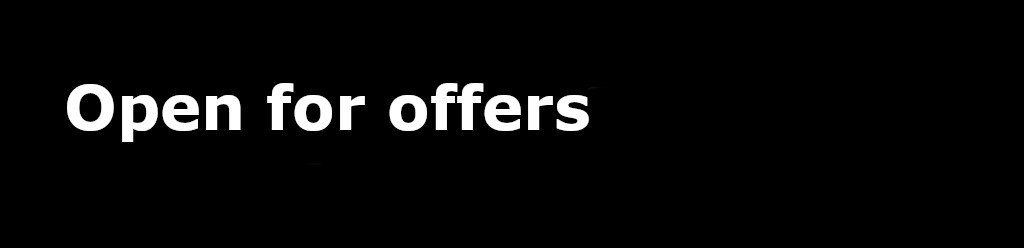
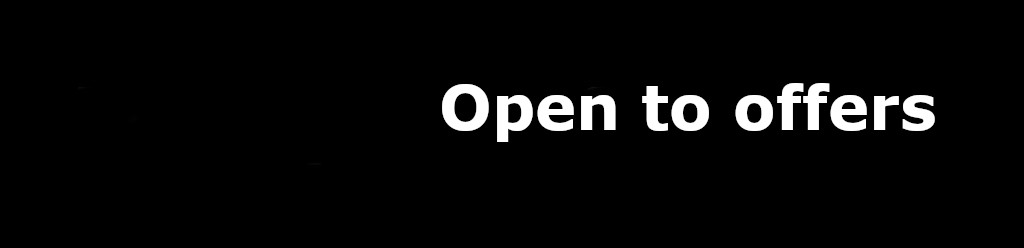
profile section complete

Changed region(s): [[0.0625, 0.3387, 0.9375, 0.5927]]

diff --git a/src/components/badge/Badge.jsx b/src/components/badge/Badge.jsx
@@ -2,7 +2,7 @@ import * as THREE from 'three'
 import { useEffect, useRef, useState } from 'react'
 import { extend, useThree, useFrame } from '@react-three/fiber'
 import { useGLTF, useTexture } from '@react-three/drei'
-import { BallCollider, CuboidCollider, Physics, RigidBody, useRopeJoint, useSphericalJoint } from '@react-three/rapier'
+import { BallCollider, CuboidCollider, RigidBody, useRopeJoint, useSphericalJoint } from '@react-three/rapier'
 import { MeshLineGeometry, MeshLineMaterial } from 'meshline'
 
 extend({ MeshLineGeometry, MeshLineMaterial })
@@ -86,7 +86,8 @@ const Badge = ({ maxSpeed = 50, minSpeed = 10 }) => {
             onPointerUp={(e) => (e.target.releasePointerCapture(e.pointerId), drag(false))}
             onPointerDown={(e) => (e.target.setPointerCapture(e.pointerId), drag(new THREE.Vector3().copy(e.point).sub(vec.copy(card.current.translation()))))}>
             <mesh geometry={nodes.card.geometry}>
-              <meshPhysicalMaterial map={materials.base.map} map-anisotropy={16} clearcoat={1} clearcoatRoughness={0.15} roughness={0.3} metalness={0.5} />
+              {/* <meshPhysicalMaterial map={materials.base.map} map-anisotropy={16} clearcoat={1} clearcoatRoughness={0.15} roughness={0.3} metalness={0.5} /> */}
+              <meshBasicMaterial map={materials.base.map} map-anisotropy={16} clearcoat={1} clearcoatRoughness={0.15} roughness={0.3} metalness={0.5} />
             </mesh>
             <mesh geometry={nodes.clip.geometry} material={materials.metal} material-roughness={0.3} />
             <mesh geometry={nodes.clamp.geometry} material={materials.metal} />

diff --git a/src/components/ContactInfo/ContactInfo.tsx b/src/components/ContactInfo/ContactInfo.tsx
@@ -1,4 +1,4 @@
-import { FaLinkedin, FaInstagram, FaPhone, FaEnvelope } from 'react-icons/fa';
+import { FaLinkedin, FaPhone, FaEnvelope, FaGithub } from 'react-icons/fa';
 import './ContactInfo.css';
 
 const ContactInfo = () => {
@@ -7,21 +7,21 @@ const ContactInfo = () => {
       <div className="contact-row">
         <div className="contact-item">
           <FaLinkedin className="contact-icon" />
-          <a href="https://linkedin.com/in/yourprofile" target="_blank" rel="noopener noreferrer">linkedin.com/in/yourprofile</a>
+          <a href="https://www.linkedin.com/in/valentin-dyrda/" target="_blank" rel="noopener noreferrer">Linkdin</a>
         </div>
         <div className="contact-item">
-          <FaInstagram className="contact-icon" />
-          <a href="https://instagram.com/yourprofile" target="_blank" rel="noopener noreferrer">@yourprofile</a>
+          <FaGithub className="contact-icon" />
+          <a href="https://github.com/dy97va" target="_blank" rel="noopener noreferrer">GitHub</a>
         </div>
       </div>
       <div className="contact-row">
         <div className="contact-item">
           <FaPhone className="contact-icon" />
-          <span>+1 (234) 567-8901</span>
+          <span>+358 465798609</span>
         </div>
         <div className="contact-item">
           <FaEnvelope className="contact-icon" />
-          <a href="mailto:youremail@example.com">youremail@example.com</a>
+          <a href="mailto:dy97va@gmail.com">dy97va@gmail.com</a>
         </div>
       </div>
     </div>

diff --git a/src/components/profile/Profile.tsx b/src/components/profile/Profile.tsx
@@ -2,25 +2,17 @@
 import Badge from '../badge/Badge'
 import { Canvas } from '@react-three/fiber'
 import { Physics } from '@react-three/rapier'
-import { Environment, Lightformer } from '@react-three/drei'
 import ContactInfo from '../ContactInfo/ContactInfo'
 import './Profile.css'
 
 function Profile() {
     return(
         <div className="profile-container">
-            <Canvas camera={{ position: [0, 0, 13], fov: 25 }}>
-                <ambientLight intensity={Math.PI} />
+            <Canvas camera={{ position: [0, 0, 13], fov: 15 }}>
+                <ambientLight intensity={150} />
                 <Physics interpolate gravity={[0, -40, 0]} timeStep={1 / 60}>
                     <Badge />
                 </Physics>
-                <Environment background blur={0.75}>
-        <color attach="background" args={['#181a20']} />
-        <Lightformer intensity={2} color="white" position={[0, -1, 5]} rotation={[0, 0, Math.PI / 3]} scale={[100, 0.1, 1]} />
-        <Lightformer intensity={3} color="white" position={[-1, -1, 1]} rotation={[0, 0, Math.PI / 3]} scale={[100, 0.1, 1]} />
-        <Lightformer intensity={3} color="white" position={[1, 1, 1]} rotation={[0, 0, Math.PI / 3]} scale={[100, 0.1, 1]} />
-        <Lightformer intensity={10} color="white" position={[-10, 0, 14]} rotation={[0, Math.PI / 2, Math.PI / 3]} scale={[100, 10, 1]} />
-      </Environment>
             </Canvas>
             <ContactInfo />
         </div>
